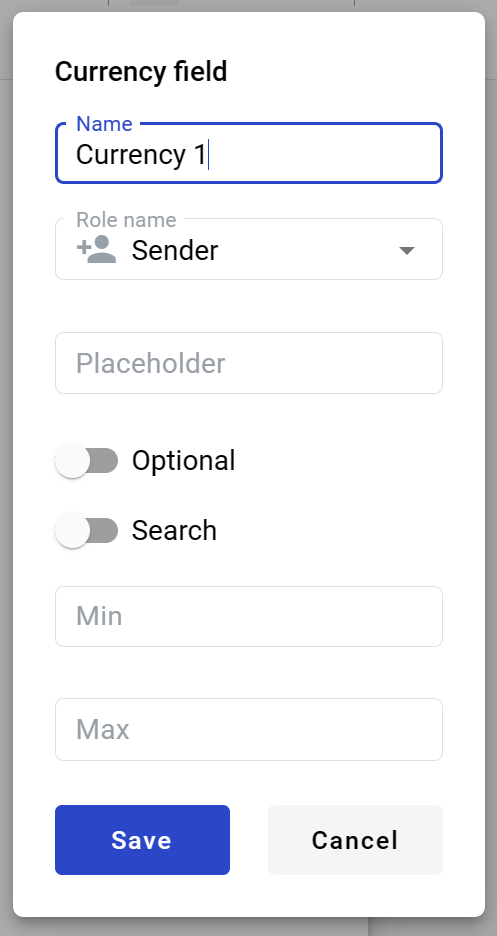
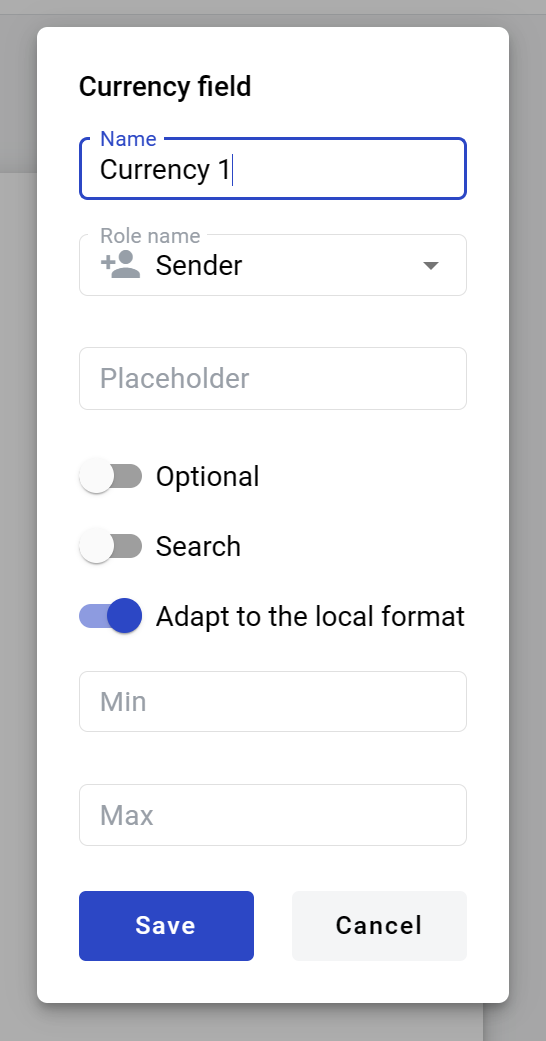
Number and currency regional formatting

diff --git a/docs/source/pages/howToWorkWithPlatform/mainApplication/templateList/templateManagement/documentManagementOnTemplate/structuredDocument/fields/number/number.rst b/docs/source/pages/howToWorkWithPlatform/mainApplication/templateList/templateManagement/documentManagementOnTemplate/structuredDocument/fields/number/number.rst
@@ -30,9 +30,13 @@ How to add number field to template
 6. Placeholder - this text will be shown in the input box before anything is filled in (can be left empty, field name will be used instead)
 7. Optional - this attribute specifies if this field is mandatory to fill
 8. Search - this attribute specifies if this field should be eligible for mailbox page search
-9. Precision - number of decimal places allowed in field (no limit is applied if left empty)
-10. Min - minimal value allowed in field (no limit is applied if left empty)
-11. Max - maximal value allowed in field (no limit is applied if left empty)
+9. Adapt to the local format - this attribute specifies if numbers will be formatted according to regional standard.
+
+.. note:: Numbers in envelope view will be formatted according to standard of a region which is selected on User profile page. You can see formatting example under region selector on that page. Numbers in printable versions of the documents will always be formatted according to platform region standard.
+
+10. Precision - number of decimal places allowed in field (no limit is applied if left empty)
+11. Min - minimal value allowed in field (no limit is applied if left empty)
+12. Max - maximal value allowed in field (no limit is applied if left empty)
 
 When all attributres are set, you can click Save button and field will be added. You can click field to see its properties and update them. Also you can delete the field in same menu.
 

diff --git a/docs/source/pages/howToWorkWithPlatform/mainApplication/templateList/templateManagement/documentManagementOnTemplate/structuredDocument/fields/currency/currency.rst b/docs/source/pages/howToWorkWithPlatform/mainApplication/templateList/templateManagement/documentManagementOnTemplate/structuredDocument/fields/currency/currency.rst
@@ -30,8 +30,12 @@ How to add currency field to template
 6. Placeholder - this text will be shown in the input box before anything is filled in (can be left empty, field name will be used instead)
 7. Optional - this attribute specifies if this field is mandatory to fill
 8. Search - this attribute specifies if this field should be eligible for mailbox page search
-9. Min - minimal value allowed in field (no limit is applied if left empty)
-10. Max - maximal value allowed in field (no limit is applied if left empty)
+9. Adapt to the local format - this attribute specifies if numbers will be formatted according to regional standard.
+
+.. note:: Numbers in envelope view will be formatted according to standard of a region which is selected on User profile page. You can see formatting example under region selector on that page. Numbers in printable versions of the documents will always be formatted according to platform region standard.
+
+10. Min - minimal value allowed in field (no limit is applied if left empty)
+11. Max - maximal value allowed in field (no limit is applied if left empty)
 
 When all attributres are set, you can click Save button and field will be added. You can click field to see its properties and update them. Also you can delete the field in same menu.
 
